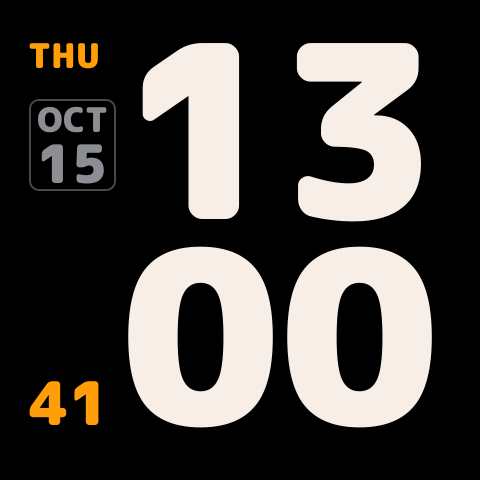
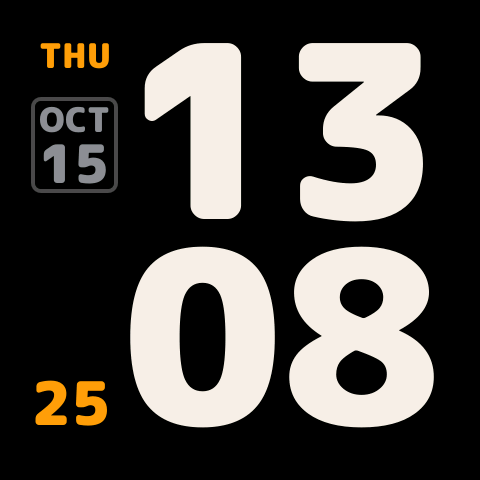
docs: show the centred weekday and 4 px frame
New screenshots from the board and the updated date specification.

diff --git a/README.md b/README.md
@@ -13,7 +13,7 @@ The screenshots are read back from a real board with `tools/screenshot.py`; the 
 ## Features
 
 - Hours and minutes in tabular digits, aligned column by column; seconds in small type at the minutes' lower corner.
-- Weekday at the top of the side column, its ink on the column's outer edge. Below it the month ("OCT") and the day in a thin rounded frame, centred between the weekday and the SYNC/BATT indicator (in 12-hour mode between the weekday and AM/PM). The day always has two digits and one fixed size, chosen so the widest day is as wide as "SUN". One setting shows or hides weekday, month and day together.
+- Weekday at the top of the side column; below it the month ("OCT") and the day in a rounded frame whose outer side is on the column edge, centred between the weekday and the SYNC/BATT indicator (in 12-hour mode between the weekday and AM/PM). Weekday, month and day are centred on the frame's axis. The day always has two digits and one fixed size, chosen so the widest day is as wide as "SUN". One setting shows or hides weekday, month and day together.
 - Time sync over NTP every hour, with up to three servers you can edit (defaults `tock.stdtime.gov.tw`, `time.stdtime.gov.tw`, `pool.ntp.org`). Each sync asks four times and keeps the answer with the shortest round trip, corrected for the network delay, so Wi-Fi power save on battery does not throw it off. The PCF85063 RTC is kept in step with NTP, and the clock starts from the RTC time after a restart, so it keeps working without Wi-Fi. The RTC's drift is measured at every sync and corrected automatically.
 - Eight brightness levels, remembered separately for day and night; automatic night dimming (default 23:00–07:00).
 - Screen-off schedule (default 03:00–09:00): the panel is off in that window; a button press or a tap shows the clock for 30 s.
@@ -149,7 +149,7 @@ The layout (column widths, date size, positions) is recalculated for the new fon
 |---|---|---|
 | Font | M PLUS Rounded 1c Black | Hours/minutes 176 px cap height, seconds 44 px, weekday and month 25 px, day 39 px, UI text 22 px; ASCII only |
 | Layout | Digit columns 159 px; baselines y = 225 / 431; side column 80 px | Digits at x = 35 (column right) or x = 127 (column left) |
-| Date | Month above two tabular digits in 35 px cells, both centred by their ink in an 87 × 92 px frame (2 px line in #48484A, corner radius 10 px) whose outer side is on the column edge | Widest month (MAY) 73 px of ink, widest day 68 px, "SUN" 67 px. Frame top y = 105, or 91 in 12-hour mode; 12 px from the hour digits |
+| Date | Month above two tabular digits in 35 px cells, both centred by their ink in an 87 × 96 px frame (4 px line in #48484A, corner radius 10 px) whose outer side is on the column edge; the weekday centred on the same axis above it | Widest month (MAY) 73 px of ink, widest day 68 px, "SUN" 67 px. Frame top y = 103, or 89 in 12-hour mode; 12 px from the hour digits |
 | Edge margin | ≥ 29 px left, 30 right, 40 top, 41 bottom | At the largest drift, both sides, all digits and labels |
 | Rendering | 480 × 32 px bands, only changed areas redrawn | The ESP32-C6 has no PSRAM for a full 450 KB frame |
 | Time sync | NTP every 3600 s, own client (RFC 5905): 4 queries 2 s apart to the first of up to 3 servers that answers; the answer with the shortest round trip sets the clock, offset ((t2 − t1) + (t3 − t4)) / 2 | Host names or IPv4 addresses (letters, digits, `.`, `-`, up to 63 characters); all empty restores the defaults. After a failure: again after 30 s, doubling up to 10 min. An answer whose error bound (the round trip plus the server's root delay, halved) is over 50 ms is used only when the clock may by now be further off: the last sync's bound plus 20 ppm since (5× the drift measured here); the first after start-up is always used. Against a Mac, 8 forced syncs: spread 3.4 ms, 3.5 ms with Wi-Fi power save (lwIP's SNTP before, 10 syncs: 45 ms and 115 ms) |

diff --git a/README.zh-TW.md b/README.zh-TW.md
@@ -13,7 +13,7 @@
 ## 功能
 
 - 時、分使用等寬數字，上下兩列逐欄對齊；秒數以小字放在分鐘旁的下角。
-- 側欄最上方是星期，字跡貼齊側欄外緣。下方是月份（如「OCT」）與日期，外圍一圈細圓角框，整塊置中在星期與 SYNC／BATT 提示之間（12 小時制時改為星期與 AM／PM 之間）。日期固定兩位數、固定字級，最寬的日期與「SUN」同寬。星期、月份與日期由同一個設定一起顯示或隱藏。
+- 側欄最上方是星期，下方是月份（如「OCT」）與日期，外圍一圈圓角框；框的外側貼齊側欄外緣，整塊置中在星期與 SYNC／BATT 提示之間（12 小時制時改為星期與 AM／PM 之間）。星期、月份、日期都對齊外框的中線置中。日期固定兩位數、固定字級，最寬的日期與「SUN」同寬。星期、月份與日期由同一個設定一起顯示或隱藏。
 - 每小時透過 NTP 對時，最多 3 個伺服器、可在網頁自行填寫（預設 `tock.stdtime.gov.tw`、`time.stdtime.gov.tw`、`pool.ntp.org`）。每次對時連問 4 次，取來回最快的那次並扣掉網路延遲，所以用電池時的 Wi-Fi 省電模式也不會讓時間跑掉。PCF85063 RTC 會跟著 NTP 保持準確，重新開機時先採用 RTC 的時間，所以沒有 Wi-Fi 也能正常走時。每次對時都會量測 RTC 的快慢並自動補償。
 - 亮度 8 段，白天、夜間各自記憶；夜間時段自動調暗（預設 23:00–07:00）。
 - 定時關閉螢幕（預設 03:00–09:00）：時段內螢幕關閉，按任一鍵或輕觸會亮 30 秒。
@@ -149,7 +149,7 @@ tests/run.sh
 |---|---|---|
 | 字型 | M PLUS Rounded 1c Black | 時分字高 176 px、秒 44 px、星期與月份 25 px、日期 39 px、介面文字 22 px；只含 ASCII |
 | 版面 | 數字欄寬 159 px；基線 y = 225／431；側欄寬 80 px | 側欄在右時數字 x = 35，在左時 x = 127 |
-| 日期 | 月份在上、兩位等寬數字（每格 35 px）在下，都以字跡置中在 87 × 92 px 的外框內（2 px 線、顏色 #48484A、圓角半徑 10 px），外框外側貼齊側欄外緣 | 最寬的月份（MAY）字跡 73 px、最寬的日期 68 px、「SUN」67 px。外框上緣 y = 105，12 小時制為 91；離時數字 12 px |
+| 日期 | 月份在上、兩位等寬數字（每格 35 px）在下，都以字跡置中在 87 × 96 px 的外框內（4 px 線、顏色 #48484A、圓角半徑 10 px），外框外側貼齊側欄外緣；星期在上方同一條中線置中 | 最寬的月份（MAY）字跡 73 px、最寬的日期 68 px、「SUN」67 px。外框上緣 y = 103，12 小時制為 89；離時數字 12 px |
 | 邊距 | 左 ≥ 29、右 30、上 40、下 41 px | 最大飄移、左右兩種排列、所有數字與標籤 |
 | 繪圖 | 每次 480 × 32 px 一帶，只重畫變動區域 | ESP32-C6 沒有 PSRAM，放不下 450 KB 的整張畫面 |
 | 對時 | NTP 每 3600 秒，自寫用戶端（RFC 5905）：依序找最多 3 個伺服器中第一個有回應的，間隔 2 秒問 4 次；來回最快的那次設定時鐘，偏移 ((t2 − t1) + (t3 − t4)) / 2 | 主機名稱或 IPv4（英數字、`.`、`-`，最長 63 字元）；三個都留空恢復預設。失敗後 30 秒重試，每次加倍，最長 10 分鐘。誤差上限（來回時間加上伺服器 root delay 的一半）超過 50 ms 的回應，只在時鐘此刻可能偏得更多時才採用：上次對時的誤差上限，加上之後以 20 ppm 累積的漂移（這裡量到的漂移的 5 倍）；開機後第一次一律採用。以 Mac 為基準強制對時 8 次：誤差範圍 3.4 ms，Wi-Fi 省電時 3.5 ms（原本的 lwIP SNTP，各 10 次：45 ms 與 115 ms） |
